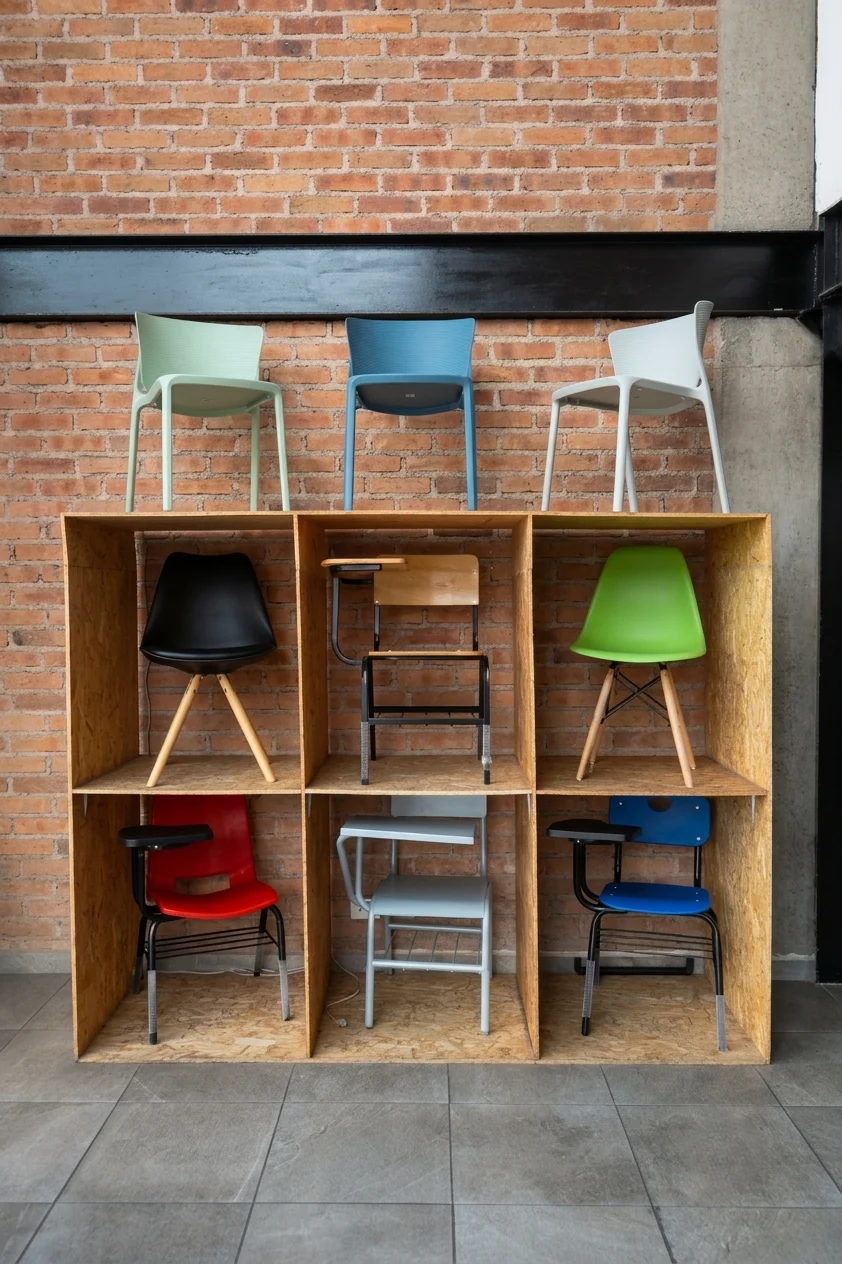
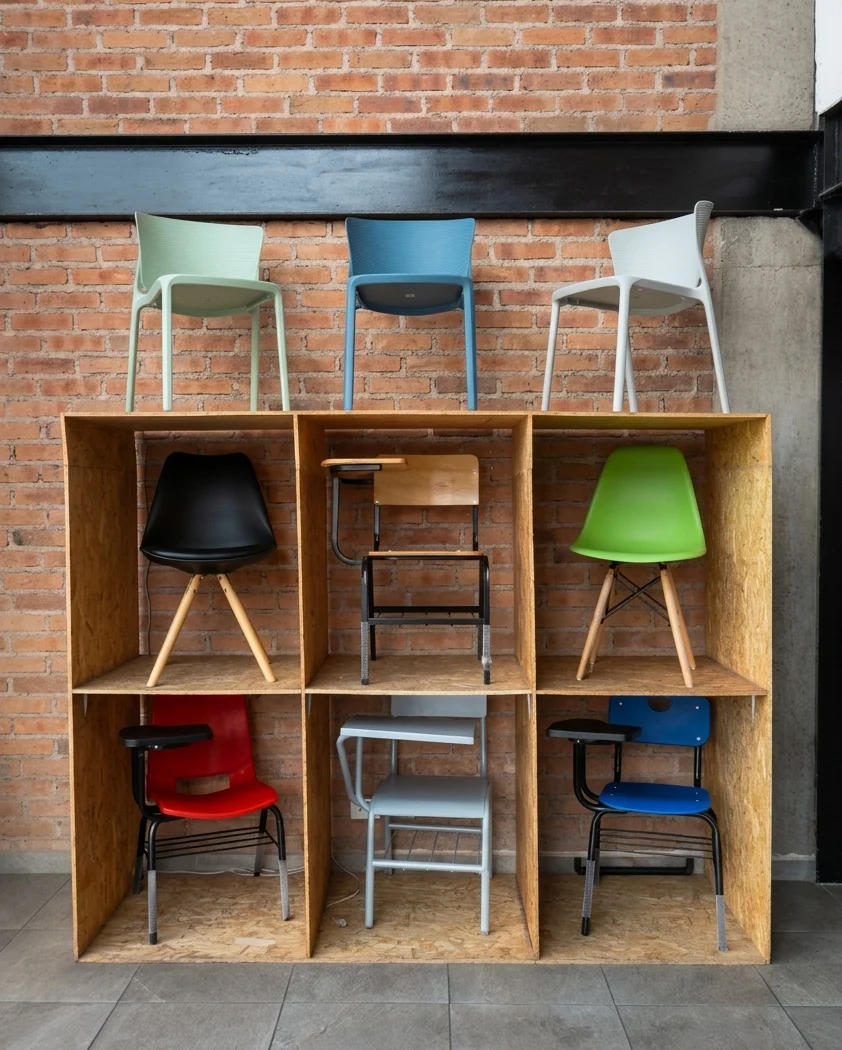
Tighten the Showroom photo crop and revert tile to standard height
The previous full-bleed contain version left too much dead brick/
floor space and made the tile disproportionately tall next to the
rest of the section. Trim the source to the shelving unit itself
and go back to the standard 220px cover tile, matching its sibling.

diff --git a/ofico-demo.html b/ofico-demo.html
@@ -226,10 +226,6 @@
     transition:transform .7s cubic-bezier(.16,.8,.24,1);
   }
   .ph:hover .ph-real{transform:scale(1.06);}
-  .ph-contain .ph-real{
-    width:auto; height:auto; max-width:100%; max-height:100%; margin:auto;
-  }
-  .ph-contain:hover .ph-real{transform:scale(1.03);}
   .ph::after{
     content:''; position:absolute; inset:0; z-index:2; pointer-events:none;
     background:linear-gradient(to top, rgba(12,13,16,.85) 0%, rgba(12,13,16,.32) 42%, rgba(12,13,16,0) 68%);
@@ -280,14 +276,12 @@
   .aut-item:last-child{border-bottom:1px solid var(--line);}
   .aut-item .aut-label{font-size:15px; color:var(--ink); font-weight:500;}
   .aut-item .aut-val{font-family:var(--serif); font-style:italic; color:var(--red); font-size:15px; white-space:nowrap;}
-  .aut-photo-row{display:grid; grid-template-columns:1fr 1fr; gap:16px; align-items:start;}
+  .aut-photo-row{display:grid; grid-template-columns:1fr 1fr; gap:16px;}
   .aut-photo-row .ph-hero{grid-column:1 / -1; height:280px; width:100%;}
   .aut-photo-row .ph-support{height:220px; width:100%;}
-  .aut-photo-row .ph-support.ph-tall{height:460px;}
   @media(max-width:560px){
     .aut-photo-row{grid-template-columns:1fr;}
     .aut-photo-row .ph-hero, .aut-photo-row .ph-support{height:220px;}
-    .aut-photo-row .ph-support.ph-tall{height:380px;}
   }
 
 
@@ -578,7 +572,7 @@
               <span class="ph-cap">Fachada OfiCo</span>
             </div>
           </div>
-          <div class="ph ph-support ph-tall ph-contain">
+          <div class="ph ph-support">
             <img class="ph-real" src="ofico-demo-assets/autoridad/showroom.webp" alt="Showroom de OfiCo con sillería en exhibición">
             <div class="ph-mark"><svg viewBox="0 0 24 24" fill="none"><path d="M4 16 L9 10 L13 14 L20 6" stroke="#5B5D63" stroke-width="1.5"/></svg></div>
             <div class="ph-overlay">

diff --git a/public/ofico-demo.html b/public/ofico-demo.html
@@ -226,10 +226,6 @@
     transition:transform .7s cubic-bezier(.16,.8,.24,1);
   }
   .ph:hover .ph-real{transform:scale(1.06);}
-  .ph-contain .ph-real{
-    width:auto; height:auto; max-width:100%; max-height:100%; margin:auto;
-  }
-  .ph-contain:hover .ph-real{transform:scale(1.03);}
   .ph::after{
     content:''; position:absolute; inset:0; z-index:2; pointer-events:none;
     background:linear-gradient(to top, rgba(12,13,16,.85) 0%, rgba(12,13,16,.32) 42%, rgba(12,13,16,0) 68%);
@@ -280,14 +276,12 @@
   .aut-item:last-child{border-bottom:1px solid var(--line);}
   .aut-item .aut-label{font-size:15px; color:var(--ink); font-weight:500;}
   .aut-item .aut-val{font-family:var(--serif); font-style:italic; color:var(--red); font-size:15px; white-space:nowrap;}
-  .aut-photo-row{display:grid; grid-template-columns:1fr 1fr; gap:16px; align-items:start;}
+  .aut-photo-row{display:grid; grid-template-columns:1fr 1fr; gap:16px;}
   .aut-photo-row .ph-hero{grid-column:1 / -1; height:280px; width:100%;}
   .aut-photo-row .ph-support{height:220px; width:100%;}
-  .aut-photo-row .ph-support.ph-tall{height:460px;}
   @media(max-width:560px){
     .aut-photo-row{grid-template-columns:1fr;}
     .aut-photo-row .ph-hero, .aut-photo-row .ph-support{height:220px;}
-    .aut-photo-row .ph-support.ph-tall{height:380px;}
   }
 
 
@@ -578,7 +572,7 @@
               <span class="ph-cap">Fachada OfiCo</span>
             </div>
           </div>
-          <div class="ph ph-support ph-tall ph-contain">
+          <div class="ph ph-support">
             <img class="ph-real" src="ofico-demo-assets/autoridad/showroom.webp" alt="Showroom de OfiCo con sillería en exhibición">
             <div class="ph-mark"><svg viewBox="0 0 24 24" fill="none"><path d="M4 16 L9 10 L13 14 L20 6" stroke="#5B5D63" stroke-width="1.5"/></svg></div>
             <div class="ph-overlay">
